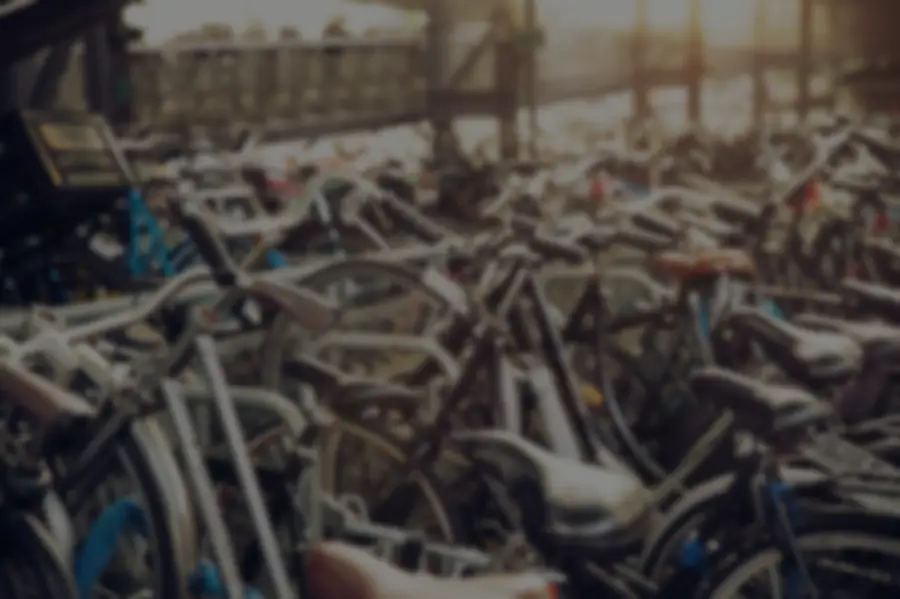
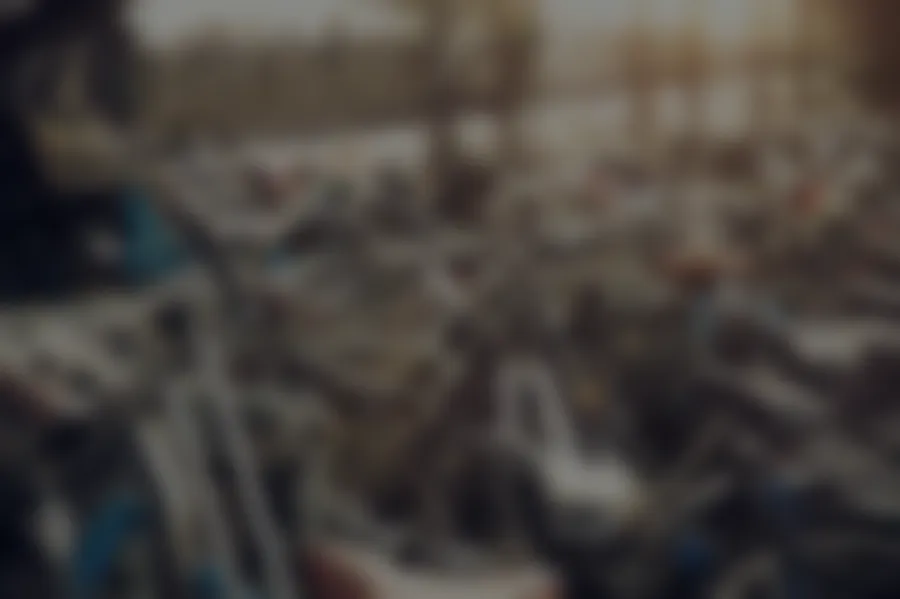
Test tiles: original tile size, blurred background
Claude-Session: https://claude.ai/code/session_011pvGYyuNH7VRSXLr7p8bhp

diff --git a/index.html b/index.html
@@ -2764,20 +2764,20 @@ main .tools .tool.gfeat{grid-column:1/-1;flex-direction:row;align-items:center;g
 
 <style id="fcRealTiles">
 /* Real-object tiles (Adobe Stock objects on a photo background) */
-main .tools .tool,main .tools .tool.gfeat{position:relative;overflow:hidden;isolation:isolate;min-height:156px;color:#fff;border:1px solid rgba(255,255,255,.08);
+main .tools .tool,main .tools .tool.gfeat{position:relative;overflow:hidden;isolation:isolate;min-height:104px;color:#fff;border:1px solid rgba(255,255,255,.08);
   background:#121417!important;background-image:linear-gradient(105deg,rgba(14,16,19,.94) 0%,rgba(14,16,19,.74) 50%,rgba(14,16,19,.3) 100%),url(img/tiles/bg.webp)!important;background-position:0 0,var(--bgp,center)!important;background-size:cover,cover!important;background-repeat:no-repeat!important}
 .tools .tool .tic{display:none}
-.tools .tool b{position:relative;z-index:2;color:#fff;font-family:var(--f-head);font-weight:700;font-size:17px;letter-spacing:-.01em;margin-top:auto;text-shadow:0 2px 12px rgba(0,0,0,.6)}
+.tools .tool b{position:relative;z-index:2;color:#fff;font-family:var(--f-head);font-weight:700;font-size:15px;letter-spacing:-.01em;margin-top:auto;text-shadow:0 2px 12px rgba(0,0,0,.6)}
 .tools .tool small{position:relative;z-index:2;color:rgba(255,255,255,.78);max-width:62%;text-shadow:0 1px 8px rgba(0,0,0,.7)}
 .tools .tool .tobj{position:absolute;z-index:1;pointer-events:none;filter:drop-shadow(0 14px 18px rgba(0,0,0,.55)) drop-shadow(0 2px 4px rgba(0,0,0,.4));transition:transform .5s cubic-bezier(.2,.8,.2,1)}
 .tools .tool:active .tobj{transform:scale(.96) rotate(-2deg)}
 @media (hover:hover){.tools .tool:hover .tobj{transform:scale(1.05) rotate(-3deg) translateY(-3px)}}
-#baOpenBtn{--bgp:20% 60%}.tobj-find{height:100px;right:-12px;top:-2px;transform:rotate(-8deg)}
-#whOpenBtn{--bgp:70% 40%}.tobj-warranty{height:86px;right:-16px;top:2px;transform:rotate(9deg)}
-#quickBtn{--bgp:40% 80%}.tobj-check{height:86px;right:-4px;top:4px;transform:rotate(-10deg)}
-#demo{--bgp:85% 70%}.tobj-example{height:104px;right:-18px;top:-14px;transform:rotate(6deg)}
-.tools .tool.gfeat{min-height:124px!important;--bgp:50% 30%}
-.tools .tool.gfeat .tobj-fix{height:104px;right:58px;top:50%;margin-top:-52px;transform:rotate(-12deg)}
+#baOpenBtn{--bgp:20% 60%}.tobj-find{height:70px;right:-8px;top:-2px;transform:rotate(-8deg)}
+#whOpenBtn{--bgp:70% 40%}.tobj-warranty{height:60px;right:-12px;top:2px;transform:rotate(9deg)}
+#quickBtn{--bgp:40% 80%}.tobj-check{height:60px;right:-4px;top:2px;transform:rotate(-10deg)}
+#demo{--bgp:85% 70%}.tobj-example{height:74px;right:-14px;top:-10px;transform:rotate(6deg)}
+.tools .tool.gfeat{min-height:88px!important;--bgp:50% 30%}
+.tools .tool.gfeat .tobj-fix{height:62px;right:64px;top:50%;margin-top:-31px;transform:rotate(-12deg)}
 .tools .tool.gfeat .gf-t,.tools .tool.gfeat .gf-go{position:relative;z-index:2}
 .tools .tool.gfeat .gf-t{max-width:52%}.tools .tool.gfeat .gf-t small{max-width:100%}
 @media (prefers-reduced-motion:reduce){.tools .tool .tobj{transition:none}}
